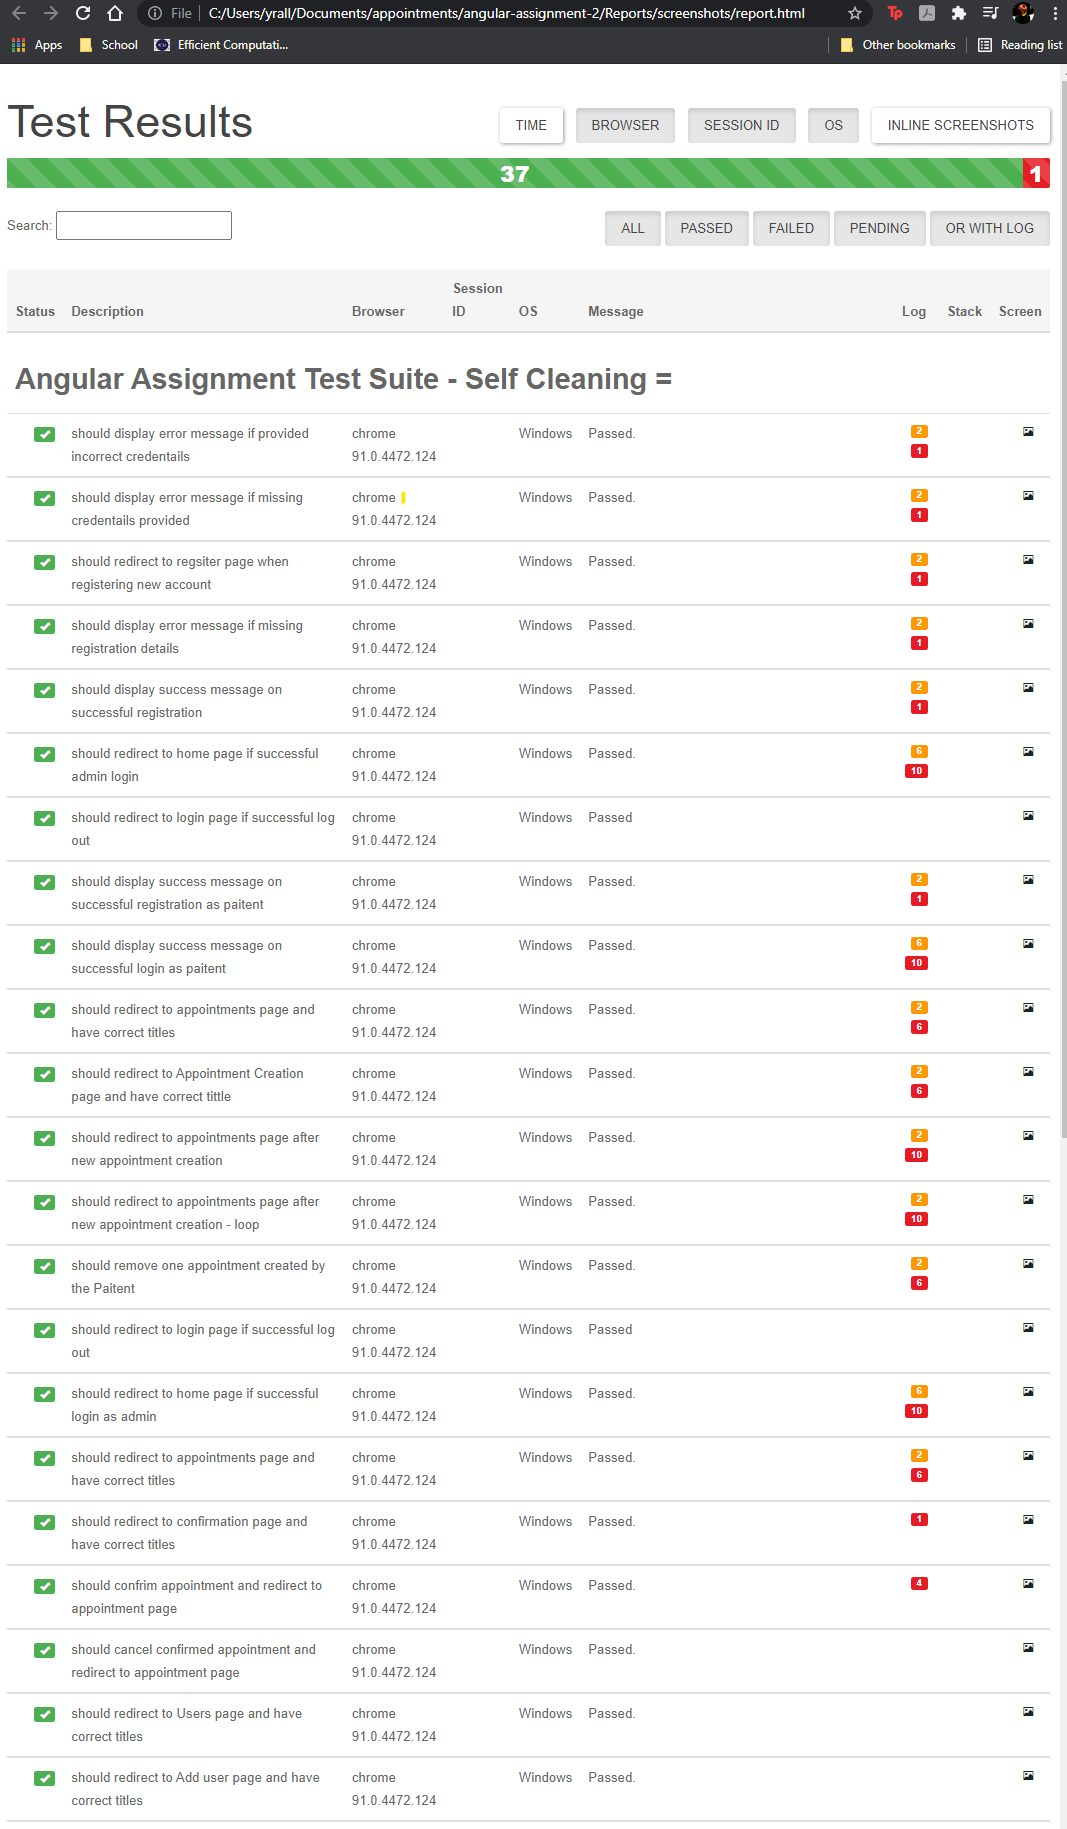
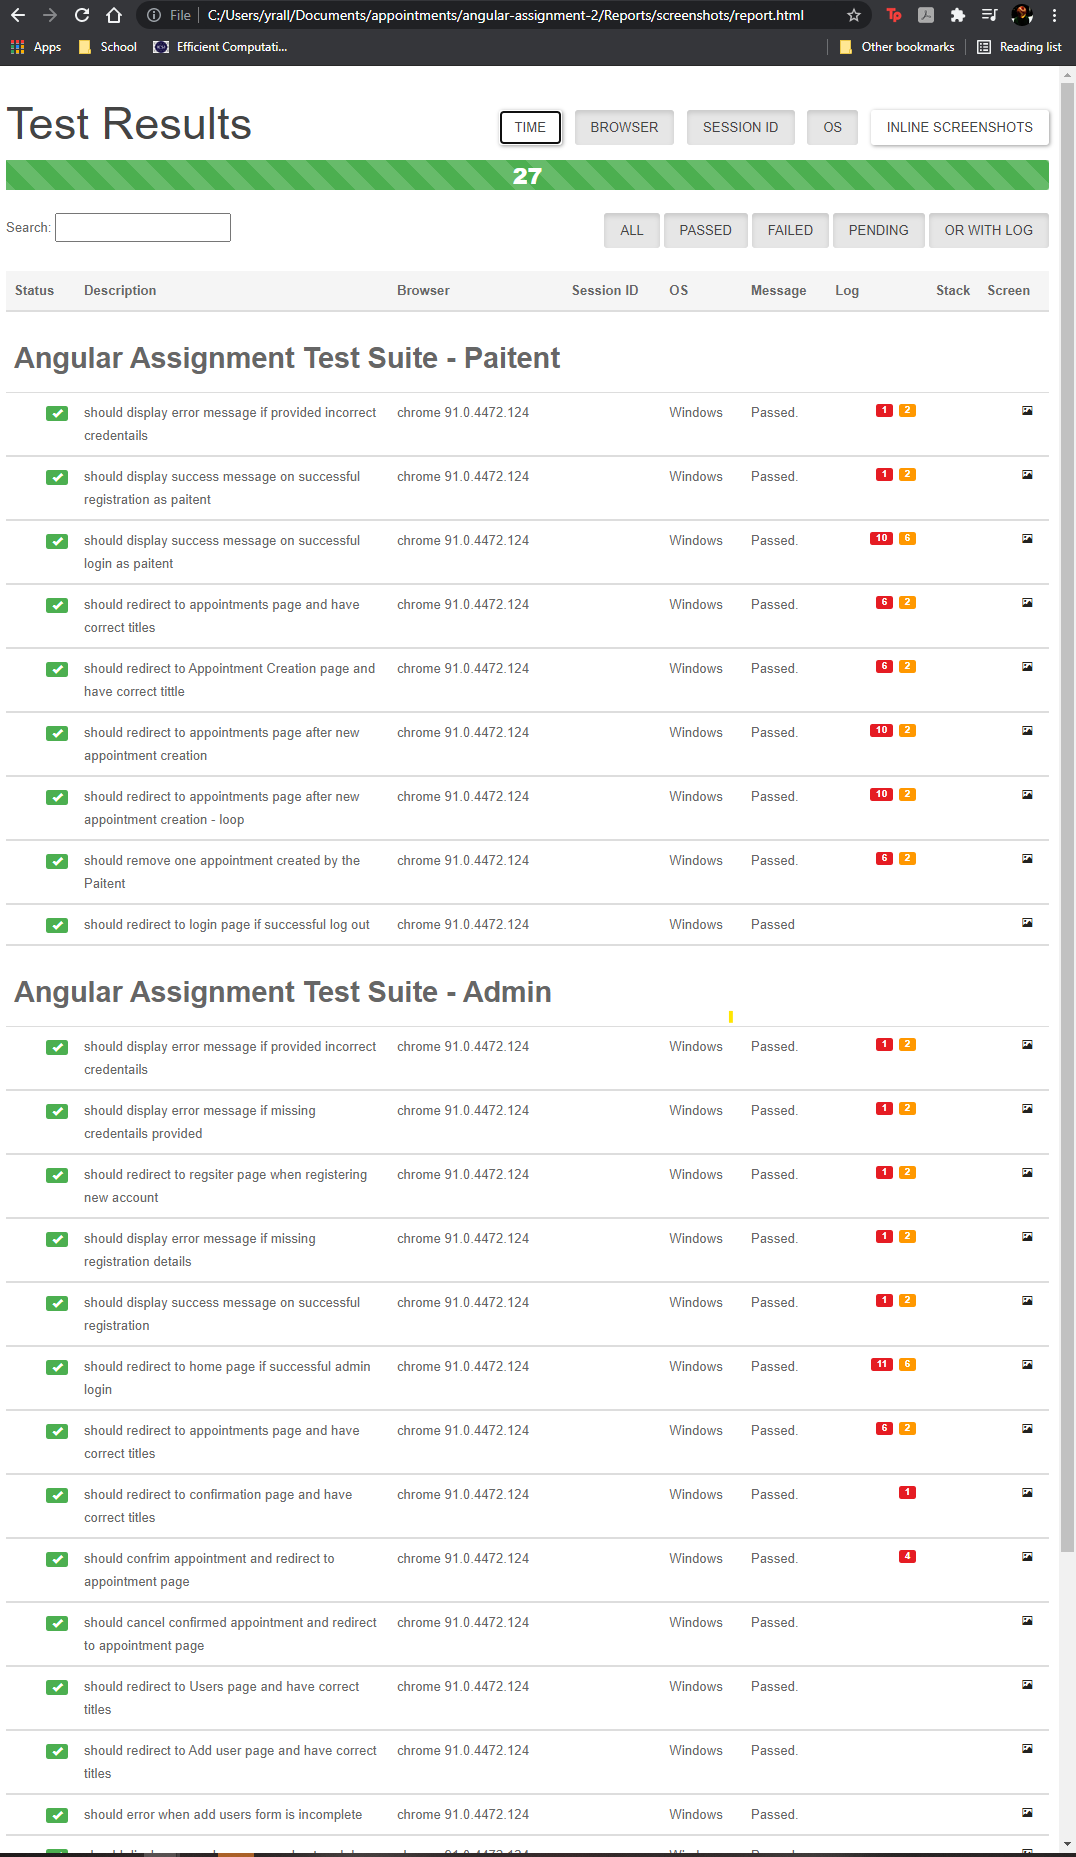
split test cases

diff --git a/tests/admin-spec.js b/tests/admin-spec.js
@@ -1,0 +1,209 @@
+const { splitAtColon } = require("@angular/compiler/src/util");
+const { browser, element } = require("protractor");
+
+describe('Angular Assignment Test Suite - Admin ', function () {
+
+  // Test Module - Login
+  
+  it('should display error message if provided incorrect credentails',function()
+  {
+    browser.get('http://localhost:4200/');
+    element(by.xpath('.//input[@formcontrolName="username"]')).sendKeys('incorrect');
+    element(by.xpath('.//input[@formcontrolName="password"]')).sendKeys('incorrect');
+    element(by.xpath(".//button[contains(text(),'Login')]")).click()
+    browser.sleep(1000);
+    expect(element(by.xpath(".//span[text()='Username or password is incorrect']")).getText()).toEqual('Username or password is incorrect');
+  });
+
+  it('should display error message if missing credentails provided',function()
+  {
+    browser.get('http://localhost:4200/');
+    element(by.xpath(".//button[contains(text(),'Login')]")).click()
+    expect(element(by.xpath(".//*[text() = 'Username is required']")).getText()).toEqual('Username is required');
+    expect(element(by.xpath(".//*[text() = 'Password is required']")).getText()).toEqual('Password is required');
+  });
+
+  it('should redirect to regsiter page when registering new account',function()
+  {
+    browser.get('http://localhost:4200/');
+    element.all(by.xpath("//*[contains(@class, 'btn btn-link')]")).first().click(); // typeError is first() is used, should retrieve
+    expect(element(by.xpath(".//h4[contains(text(),'Paitent Registration')]")).getText()).toEqual('Paitent Registration');
+  });
+
+  it('should display error message if missing registration details',function()
+  {
+    browser.get('http://localhost:4200/');
+    element.all(by.xpath("//*[contains(@class, 'btn btn-link')]")).first().click();
+    element(by.xpath("//*[contains(@class, 'btn btn-primary')]")).click();
+
+    expect(element(by.xpath(".//*[text() = 'First Name is required']")).getText()).toEqual('First Name is required');
+    expect(element(by.xpath(".//*[text() = 'Last Name is required']")).getText()).toEqual('Last Name is required');
+    expect(element(by.xpath(".//*[text() = 'Username is required']")).getText()).toEqual('Username is required');
+    expect(element(by.xpath(".//*[text() = 'Password is required']")).getText()).toEqual('Password is required');
+  });
+
+  it('should display success message on successful registration',function()
+  {
+    browser.get('http://localhost:4200/');
+    element.all(by.xpath("//*[contains(@class, 'btn btn-link')]")).first().click();
+
+    element(by.xpath(".//input[@formcontrolName='firstName']")).sendKeys('Yralle');
+    element(by.xpath(".//input[@formcontrolName='lastName']")).sendKeys('Lesly');
+    element(by.xpath(".//input[@formcontrolName='username']")).sendKeys('yralleljg');
+    element(by.xpath(".//input[@formcontrolName='password']")).sendKeys('yralleljg');
+
+    element(by.xpath("//*[contains(@class, 'btn btn-primary')]")).click();
+    expect(element(by.xpath(".//*[text() = 'Registration successful']")).getText()).toEqual('Registration successful');
+  });
+
+  it('should redirect to home page if successful admin login',function()
+  {
+    browser.get('http://localhost:4200/');
+    element(by.xpath('.//input[@formcontrolName="username"]')).sendKeys('yralleljg');
+    element(by.xpath('.//input[@formcontrolName="password"]')).sendKeys('yralleljg');
+    element(by.xpath(".//button[contains(text(),'Login')]")).click();
+
+    browser.sleep(1000); // need buffer to load data - force first user to be admin since we using in-memory api for users
+    browser.get('http://localhost:4200/users');
+
+    browser.sleep(1000);
+    element.all(by.xpath(".//a[contains(text(),'Edit')]")).last().click();
+    element(by.cssContainingText("option",'Admin')).click();
+    element(by.xpath("//*[contains(@class, 'btn btn-primary')]")).click();
+    browser.get('http://localhost:4200/');
+
+    browser.sleep(100);
+    
+    expect(element(by.xpath(".//p[contains(text(),'Admin')]")).getText()).toContain('Admin');
+
+  });
+
+  // Test Module - Appointments by Admin
+
+  it('should redirect to appointments page and have correct titles',function()
+  {
+    browser.get('http://localhost:4200/appointment');
+    expect(element(by.xpath(".//h1[contains(text(),'Appointment Schedule List')]")).getText()).toEqual('Appointment Schedule List');
+    
+ 
+  });
+
+  it('should redirect to confirmation page and have correct titles ',function()
+  {
+    element(by.xpath("//*[contains(@class, 'btn btn-sm btn-primary mr-1')]")).click();
+
+    expect(element(by.xpath(".//h4[contains(text(),'Appointment to Confirm')]")).getText()).toEqual('Appointment to Confirm');
+    
+ 
+  });
+
+  it('should confrim appointment and redirect to appointment page ',function()
+  {
+    element(by.xpath("//*[contains(@class, 'btn btn-sm btn-primary mr-1')]")).click();
+
+    expect(element(by.xpath(".//td[contains(text(),'Confirmed')]")).getText()).toEqual('Confirmed');
+    
+  });
+
+  it('should cancel confirmed appointment and redirect to appointment page ',function()
+  {
+    element(by.xpath("//button[contains(text(),'Cancel')]")).click();
+
+    expect(element(by.xpath(".//h2[contains(text(),'No Paitent Appointments')]")).getText()).toEqual('No Paitent Appointments');
+    
+  });
+
+
+  // Test Module - Users Component (Admin)
+
+  it('should redirect to Users page and have correct titles ',function()
+  {
+    element(by.xpath("//a[@routerlink='/users'][text()='Users']")).click();
+
+    expect(element(by.xpath(".//h1[contains(text(),'Manage Users')]")).getText()).toEqual('Manage Users');
+    
+  });
+
+  it('should redirect to Add user page and have correct titles ',function()
+  {
+    element(by.xpath("//a[@routerlink='add'][text()='Add User']")).click();
+
+    expect(element(by.xpath(".//h1[contains(text(),'Add User')]")).getText()).toEqual('Add User');
+    
+  });
+
+  it('should error when add users form is incomplete ',function()
+  {
+    element(by.xpath("//*[contains(@class, 'btn btn-primary')]")).click();
+
+    expect(element(by.xpath(".//*[text() = 'First Name is required']")).getText()).toEqual('First Name is required');
+    expect(element(by.xpath(".//*[text() = 'Last Name is required']")).getText()).toEqual('Last Name is required');
+    expect(element(by.xpath(".//*[text() = 'Username is required']")).getText()).toEqual('Username is required');
+    expect(element(by.xpath(".//*[text() = 'Password is required']")).getText()).toEqual('Password is required');
+    
+  });
+
+  it('should display error when password entered does not meet requirements',function()
+  {
+   
+    element(by.xpath(".//input[@formcontrolName='firstName']")).sendKeys('Test-Create-User');
+    element(by.xpath(".//input[@formcontrolName='lastName']")).sendKeys('Test-Create-User');
+    element(by.xpath(".//input[@formcontrolName='username']")).sendKeys('Test-Create-User');
+    element(by.xpath(".//input[@formcontrolName='password']")).sendKeys('Not-6');
+
+    element(by.xpath("//*[contains(@class, 'btn btn-primary')]")).click();
+    expect(element(by.xpath(".//*[text() = 'Password must be at least 6 characters']")).getText()).toEqual('Password must be at least 6 characters');
+
+    browser.sleep(1000);
+    
+  });
+
+  it('should successfully register and create user',function()
+  {
+   
+    element(by.xpath(".//input[@formcontrolName='password']")).sendKeys('Test-Create-User');
+
+    element(by.xpath("//*[contains(@class, 'btn btn-primary')]")).click();
+    expect(element(by.xpath(".//*[text() = 'User added successfully']")).getText()).toEqual('User added successfully');
+    expect(element.all(by.xpath(".//td[contains(text(),'Test-Create-User')]")).first().getText()).toEqual('Test-Create-User');
+    
+  });
+
+  it('should select a user and redirect to edit user page with correct titles',function()
+  {
+   
+    element.all(by.xpath("//*[contains(@class, 'btn btn-sm btn-primary mr-1')][text()='Edit']")).last().click(); 
+    expect(element(by.xpath(".//*[text() = 'Edit User']")).getText()).toEqual('Edit User');
+    
+  });
+
+  it('should update details of a user and redirect to user page with correct titles',function()
+  {
+   
+    element(by.xpath(".//input[@formcontrolName='firstName']")).clear().sendKeys('Test-Edit-User');
+    element(by.xpath(".//input[@formcontrolName='lastName']")).clear().sendKeys('Test-Edit-User');
+    element(by.xpath(".//input[@formcontrolName='username']")).clear().sendKeys('Test-Edit-User');
+
+    element(by.xpath("//*[contains(@class, 'btn btn-primary')]")).click();
+
+    expect(element(by.xpath(".//*[text() = 'Update successful']")).getText()).toEqual('Update successful');
+    expect(element.all(by.xpath(".//td[contains(text(),'Test-Edit-User')]")).first().getText()).toEqual('Test-Edit-User');
+
+    browser.sleep(1000);
+    
+  });
+
+  it('should delete selected users and display correct titles',function()
+  {
+    // delete Paitents created - revert app to original state
+
+    element.all(by.xpath(".//span[text()='Delete']")).last().click();
+    element.all(by.xpath(".//span[text()='Delete']")).first().click();
+
+    browser.sleep(1000);
+    
+  });
+
+
+
+});

diff --git a/tests/paitents-spec.js b/tests/paitents-spec.js
@@ -1,0 +1,109 @@
+const { splitAtColon } = require("@angular/compiler/src/util");
+const { browser, element } = require("protractor");
+
+describe('Angular Assignment Test Suite - Paitent', function () {
+
+  // Test Module - Login
+  
+  it('should display error message if provided incorrect credentails',function()
+  {
+    browser.get('http://localhost:4200/');
+    element(by.xpath('.//input[@formcontrolName="username"]')).sendKeys('incorrect');
+    element(by.xpath('.//input[@formcontrolName="password"]')).sendKeys('incorrect');
+    element(by.xpath(".//button[contains(text(),'Login')]")).click()
+    browser.sleep(1000);
+    expect(element(by.xpath(".//span[text()='Username or password is incorrect']")).getText()).toEqual('Username or password is incorrect');
+  });
+
+  it('should display success message on successful registration as paitent',function()
+  {
+    browser.get('http://localhost:4200/');
+    element.all(by.xpath("//*[contains(@class, 'btn btn-link')]")).first().click();
+
+    element(by.xpath(".//input[@formcontrolName='firstName']")).sendKeys('PaitentTest');
+    element(by.xpath(".//input[@formcontrolName='lastName']")).sendKeys('PaitentTest');
+    element(by.xpath(".//input[@formcontrolName='username']")).sendKeys('PaitentTest');
+    element(by.xpath(".//input[@formcontrolName='password']")).sendKeys('PaitentTest');
+
+    element(by.xpath("//*[contains(@class, 'btn btn-primary')]")).click();
+    expect(element(by.xpath(".//*[text() = 'Registration successful']")).getText()).toEqual('Registration successful');
+
+  });
+
+  it('should display success message on successful login as paitent',function()
+  {
+    browser.get('http://localhost:4200/');
+    element(by.xpath('.//input[@formcontrolName="username"]')).sendKeys('PaitentTest');
+    element(by.xpath('.//input[@formcontrolName="password"]')).sendKeys('PaitentTest');
+    element(by.xpath(".//button[contains(text(),'Login')]")).click();
+
+    browser.sleep(500); // buffer
+    browser.get('http://localhost:4200/users');
+    browser.sleep(500); // buffer
+    browser.get('http://localhost:4200/');
+    browser.sleep(500); // buffer
+
+    expect(element(by.xpath(".//p[contains(text(),'Paitent')]")).getText()).toContain('Paitent');
+
+
+  });
+
+   // Test Module - Appointments created by Paitent
+
+   it('should redirect to appointments page and have correct titles',function()
+   {
+     browser.get('http://localhost:4200/appointment');
+     expect(element(by.xpath(".//h1[contains(text(),'Appointment Schedule List')]")).getText()).toEqual('Appointment Schedule List');
+   });
+
+   it('should redirect to Appointment Creation page and have correct tittle',function()
+   {
+     browser.get('http://localhost:4200/appointment');
+     element(by.xpath("//*[contains(@class, 'btn btn-sm btn-success mb-2')]")).click();
+     expect(element(by.xpath(".//h4[contains(text(),'Appointment Creation')]")).getText()).toEqual('Appointment Creation');
+
+   });
+
+   it('should redirect to appointments page after new appointment creation',function()
+   {
+     browser.get('http://localhost:4200/appointment');
+     element(by.xpath("//*[contains(@class, 'btn btn-sm btn-success mb-2')]")).click();
+
+     element(by.cssContainingText("option",'GP Clinic 2')).click();
+     element(by.cssContainingText("option",'8/7/2021, Thursday')).click();
+     element(by.xpath("//*[contains(@class, 'btn btn-primary')]")).click();
+
+     expect(element(by.xpath(".//h1[contains(text(),'Appointment Schedule List')]")).getText()).toEqual('Appointment Schedule List');
+     expect(element(by.xpath(".//td[contains(text(),'PaitentTest')]")).getText()).toEqual('PaitentTest');
+
+   });
+
+   it('should redirect to appointments page after new appointment creation - loop',function()
+   {
+     browser.get('http://localhost:4200/appointment');
+     element(by.xpath("//*[contains(@class, 'btn btn-sm btn-success mb-2')]")).click();
+
+     element(by.cssContainingText("option",'GP Clinic 1')).click();
+     element(by.cssContainingText("option",'8/7/2021, Thursday')).click();
+     element(by.xpath("//*[contains(@class, 'btn btn-primary')]")).click();
+
+     expect(element(by.xpath(".//h1[contains(text(),'Appointment Schedule List')]")).getText()).toEqual('Appointment Schedule List');
+     expect(element.all(by.xpath(".//td[contains(text(),'PaitentTest')]")).first().getText()).toEqual('PaitentTest');
+
+   });
+
+   it('should remove one appointment created by the Paitent',function()
+   {
+     browser.get('http://localhost:4200/appointment');
+     element.all(by.xpath("//button[contains(text(),'Cancel')]")).first().click();
+     expect(element(by.xpath(".//td[contains(text(),'GP Clinic 1')]")).getText()).toEqual('GP Clinic 1');
+   });
+
+   it('should redirect to login page if successful log out',function()
+   {
+     element(by.xpath(".//a[contains(text(),'Logout')]")).click();
+     browser.sleep(100);
+   });
+  
+
+});

diff --git a/tests/spec.js b/tests/spec.js
@@ -309,7 +309,7 @@ describe('Angular Assignment Test Suite - Self Cleaning =', function () {
       // delete Paitents created - revert app to original state
 
       element.all(by.xpath(".//span[text()='Delete']")).last().click();
-      element.all(by.xpath(".//span[text()='Delete']")).last().click();
+      element.all(by.xpath(".//span[text()='Delete']")).first().click();
 
       browser.sleep(1000);
       

diff --git a/tests/conf.js b/tests/conf.js
@@ -5,7 +5,7 @@ exports.config = {
     framework: 'jasmine',
     directConnect: true,
     sharedTestFiles: true,
-    specs: ['spec.js'],
+    specs: ['paitents-spec.js', 'admin-spec.js'],
 
     onPrepare: function () {
       

diff --git a/README.md b/README.md
@@ -61,7 +61,7 @@ The end-to-end test framework used is [Protractor](https://www.protractortest.or
 
 Test case flow were designed to be self-cleaning. Below is the list of test cases created:
 
-| S/No | Type      Type | Test Case                                                                       |
+| S/No | Type Type      | Test Case                                                                       |
 |------|----------------|---------------------------------------------------------------------------------|
 | 1    | Negative       | should display   error message if provided incorrect credentails                |
 | 2    | Negative       | should display   error message if missing credentails provided                  |
